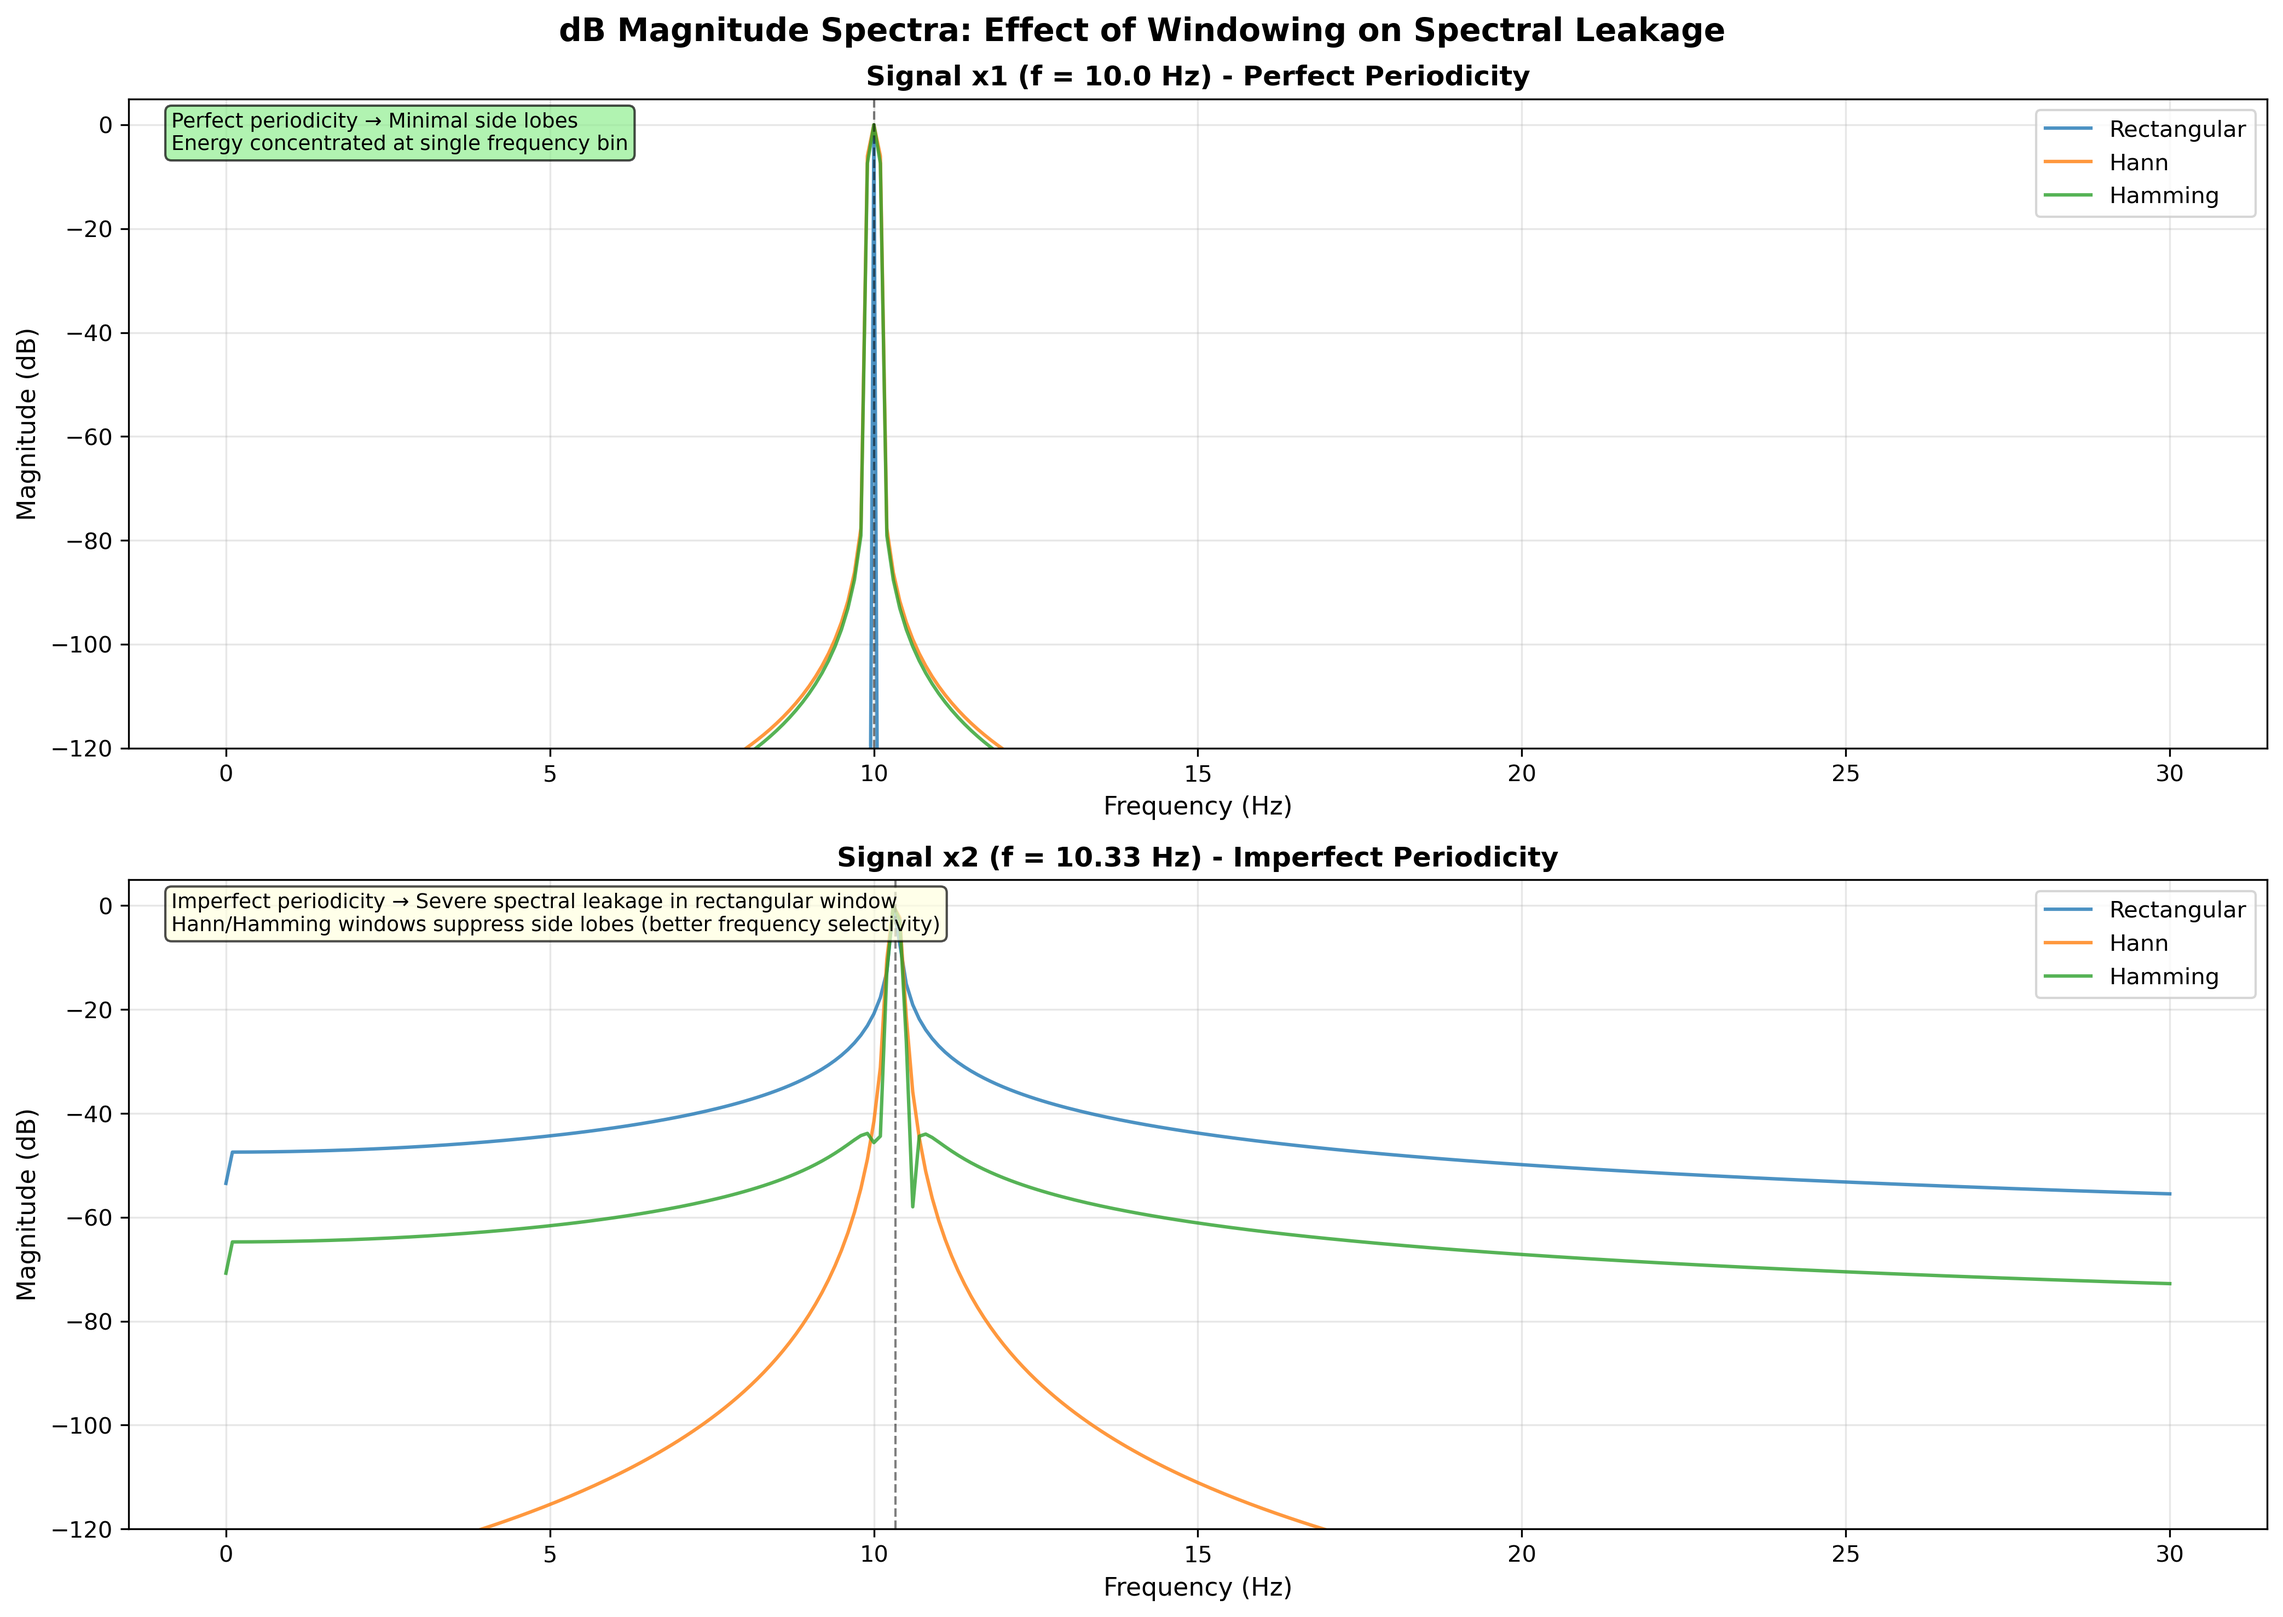
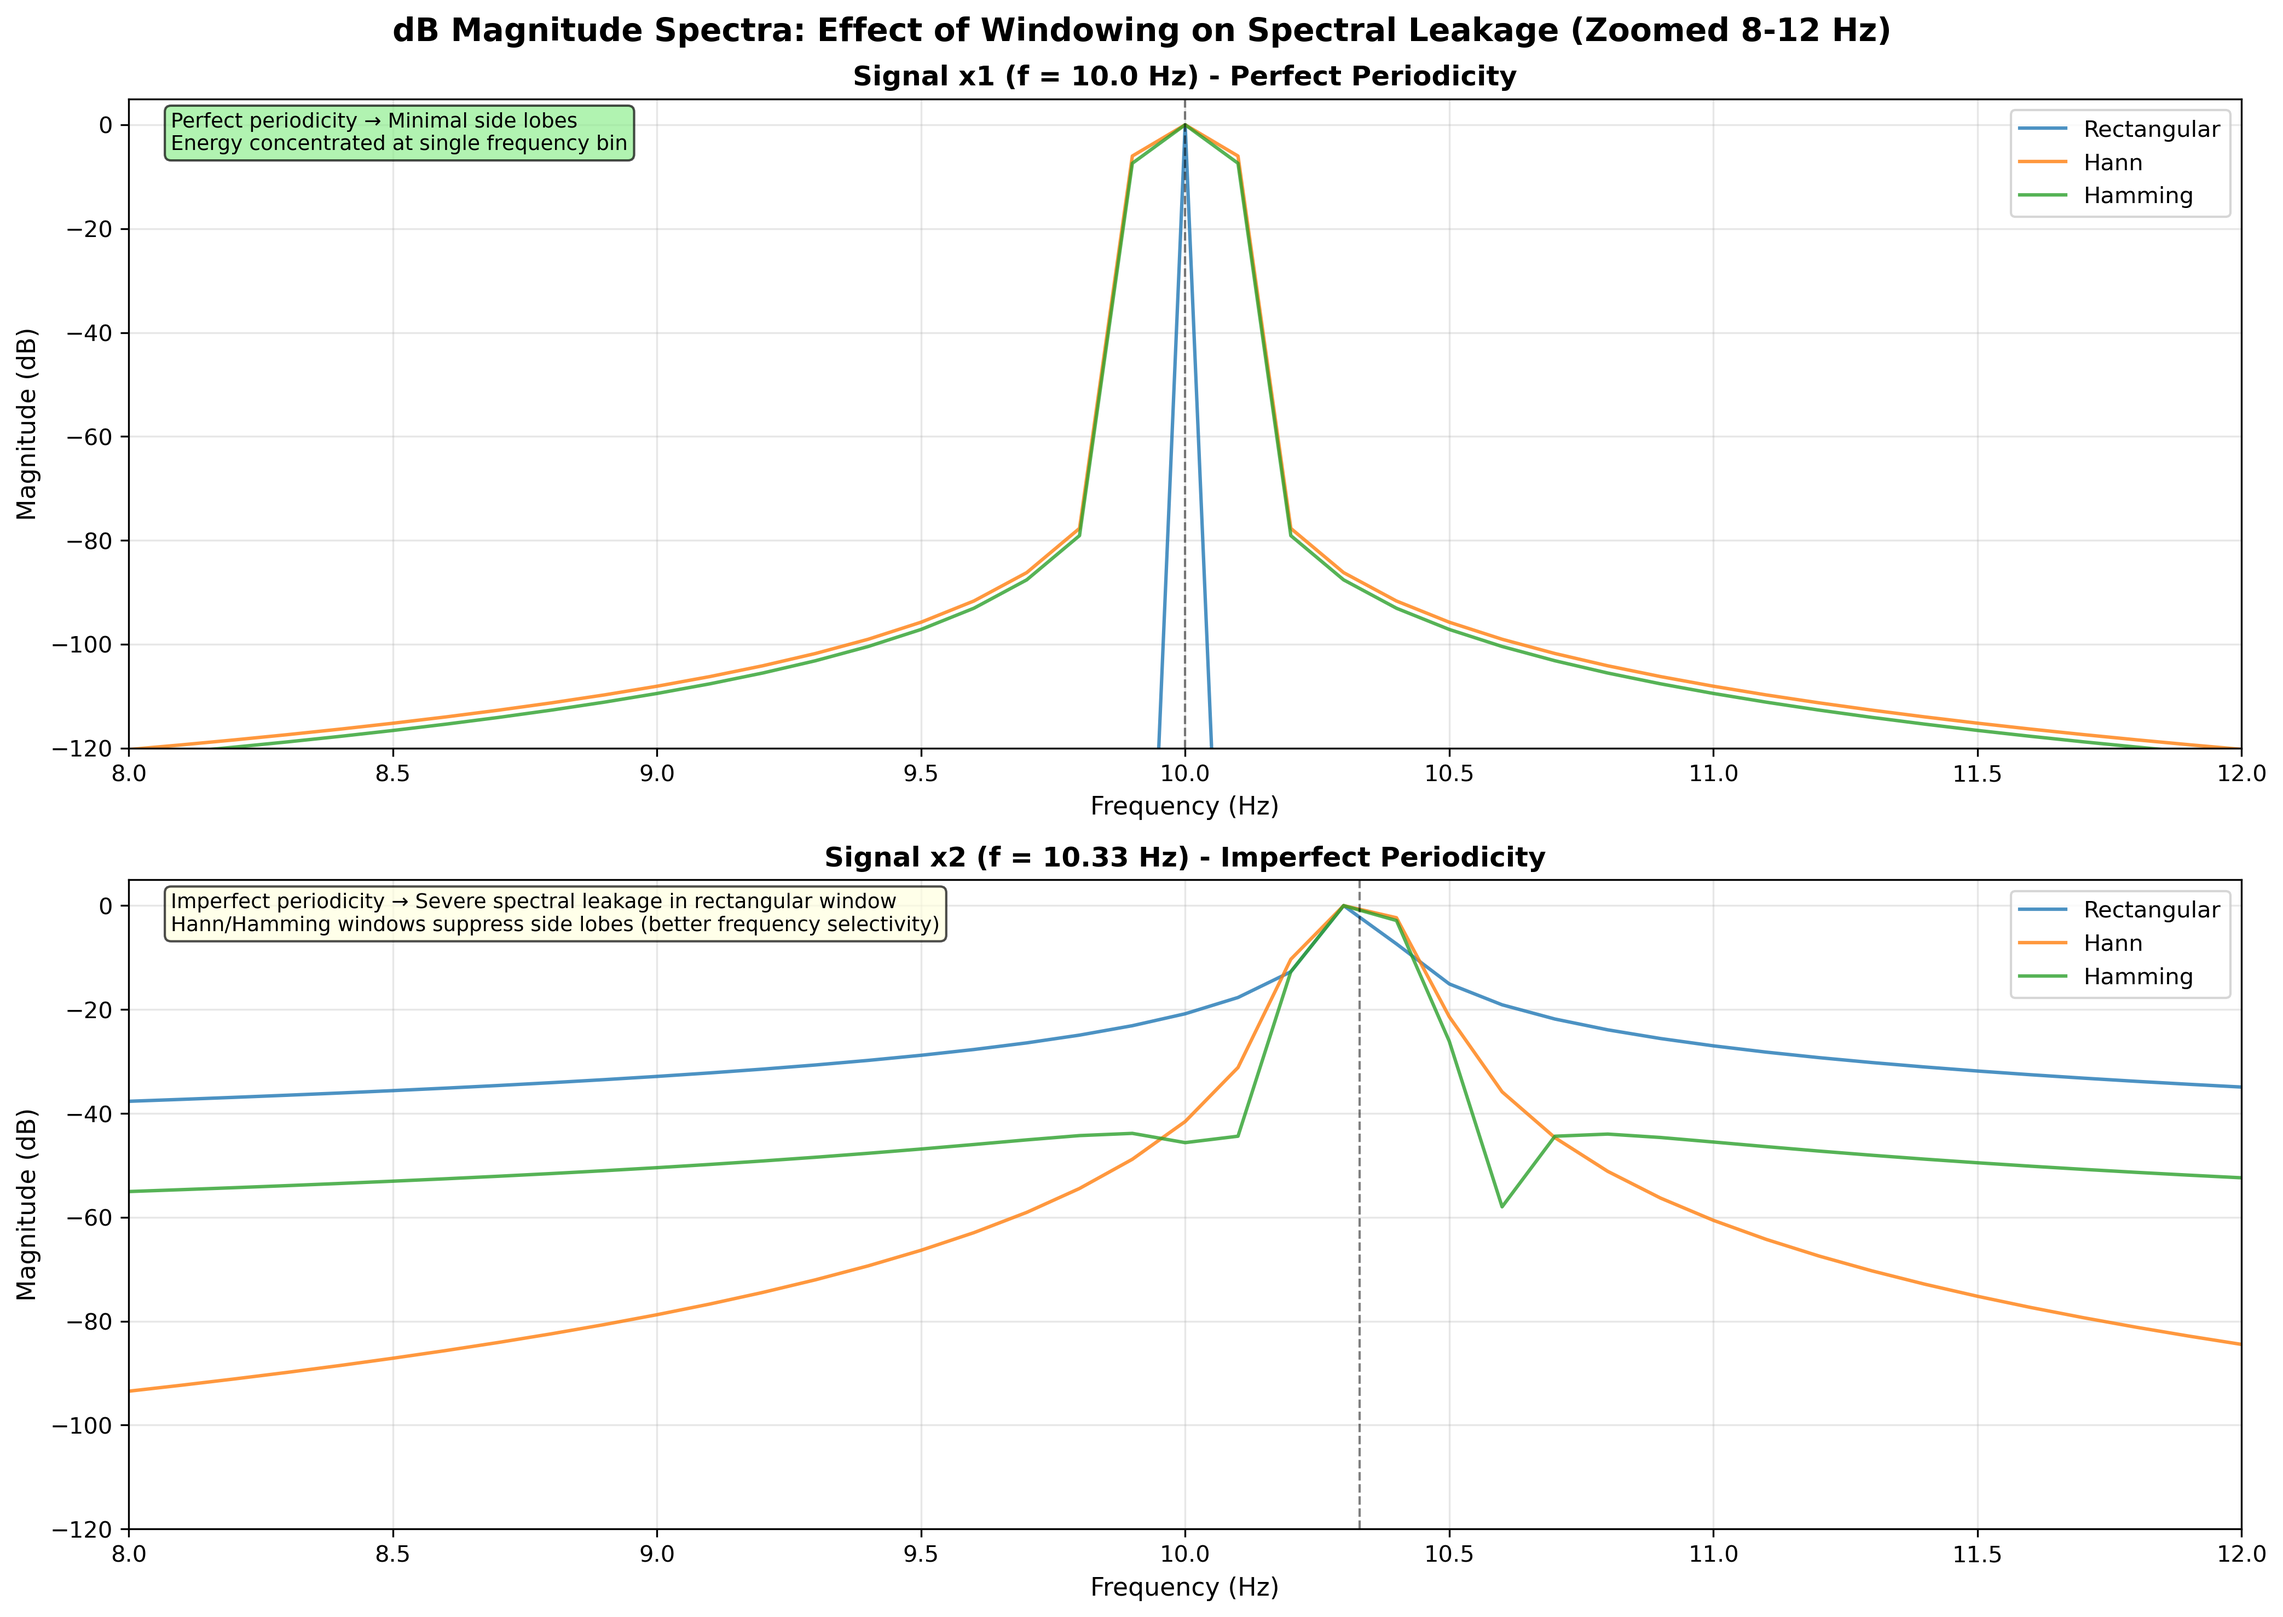
added better resolution for db diagramms

diff --git a/src/part1/synthetic_leakage.py b/src/part1/synthetic_leakage.py
@@ -262,20 +262,24 @@ def main():
     print(f"  Saved: spectrum_linear_magnitude.png")
     
     # =========================================================================
-    # 8. SPECTRAL PLOTS - dB MAGNITUDE
+    # 8. SPECTRAL PLOTS - dB MAGNITUDE (ZOOMED 8-12 Hz)
     # =========================================================================
-    print("\nGenerating dB magnitude spectrum plots...")
+    print("\nGenerating dB magnitude spectrum plots (zoomed 8-12 Hz)...")
     
     fig, axes = plt.subplots(2, 1, figsize=(14, 10))
-    fig.suptitle('dB Magnitude Spectra: Effect of Windowing on Spectral Leakage', 
+    fig.suptitle('dB Magnitude Spectra: Effect of Windowing on Spectral Leakage (Zoomed 8-12 Hz)', 
                  fontsize=14, fontweight='bold')
+    
+    # Frequency range for dB plots (zoomed)
+    f_min_db = 8
+    f_max_db = 12
     
     # Signal x1 (perfect periodicity)
     ax = axes[0]
     for window in window_types:
         f = results['x1'][window]['f']
         mag_db = results['x1'][window]['magnitude_db']
-        mask = f <= f_max
+        mask = (f >= f_min_db) & (f <= f_max_db)
         ax.plot(f[mask], mag_db[mask], label=window.capitalize(), linewidth=1.5, alpha=0.8)
     
     ax.set_xlabel('Frequency (Hz)', fontsize=11)
@@ -284,6 +288,7 @@ def main():
     ax.grid(True, alpha=0.3)
     ax.legend(loc='upper right')
     ax.axvline(f1, color='black', linestyle='--', alpha=0.5, linewidth=1)
+    ax.set_xlim([f_min_db, f_max_db])
     ax.set_ylim([-120, 5])
     ax.text(0.02, 0.98, 
             'Perfect periodicity → Minimal side lobes\nEnergy concentrated at single frequency bin', 
@@ -295,7 +300,7 @@ def main():
     for window in window_types:
         f = results['x2'][window]['f']
         mag_db = results['x2'][window]['magnitude_db']
-        mask = f <= f_max
+        mask = (f >= f_min_db) & (f <= f_max_db)
         ax.plot(f[mask], mag_db[mask], label=window.capitalize(), linewidth=1.5, alpha=0.8)
     
     ax.set_xlabel('Frequency (Hz)', fontsize=11)
@@ -304,6 +309,7 @@ def main():
     ax.grid(True, alpha=0.3)
     ax.legend(loc='upper right')
     ax.axvline(f2, color='black', linestyle='--', alpha=0.5, linewidth=1)
+    ax.set_xlim([f_min_db, f_max_db])
     ax.set_ylim([-120, 5])
     ax.text(0.02, 0.98, 
             'Imperfect periodicity → Severe spectral leakage in rectangular window\n' +
